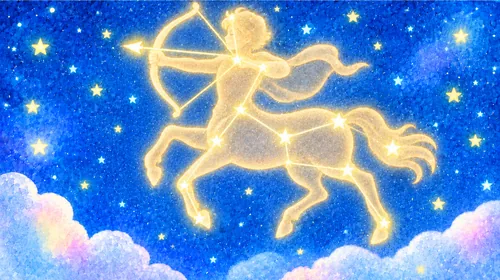
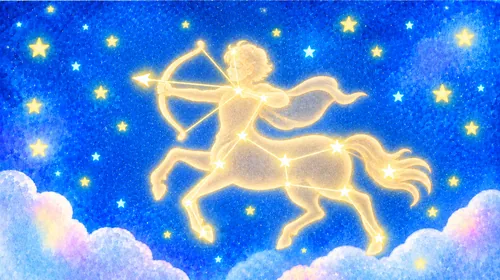
星座12枚を新しい絵に差し替え
Claude-Session: https://claude.ai/code/session_01Py86tRpSHYAiR5yGxFmHgx

diff --git a/sw.js b/sw.js
@@ -1,4 +1,4 @@
-const CACHE='card-v89';
+const CACHE='card-v90';
 const FILES=['./','index.html','word.js','sfx.js','bgm/day.mp3','bgm/night.mp3','bgm/classic.mp3','manifest.json','back1.webp','back2.webp','back3.webp','back4.webp','snow_j.webp','snow_g.webp','snow_h.webp','snow_i.webp','icon-192.png','icon-512.png'];
 self.addEventListener('install',e=>{e.waitUntil(caches.open(CACHE).then(c=>c.addAll(FILES)));self.skipWaiting()});
 self.addEventListener('activate',e=>{e.waitUntil(caches.keys().then(ks=>Promise.all(ks.filter(k=>k.startsWith('card-')&&k!==CACHE).map(k=>caches.delete(k)))).then(()=>self.clients.claim()))});
